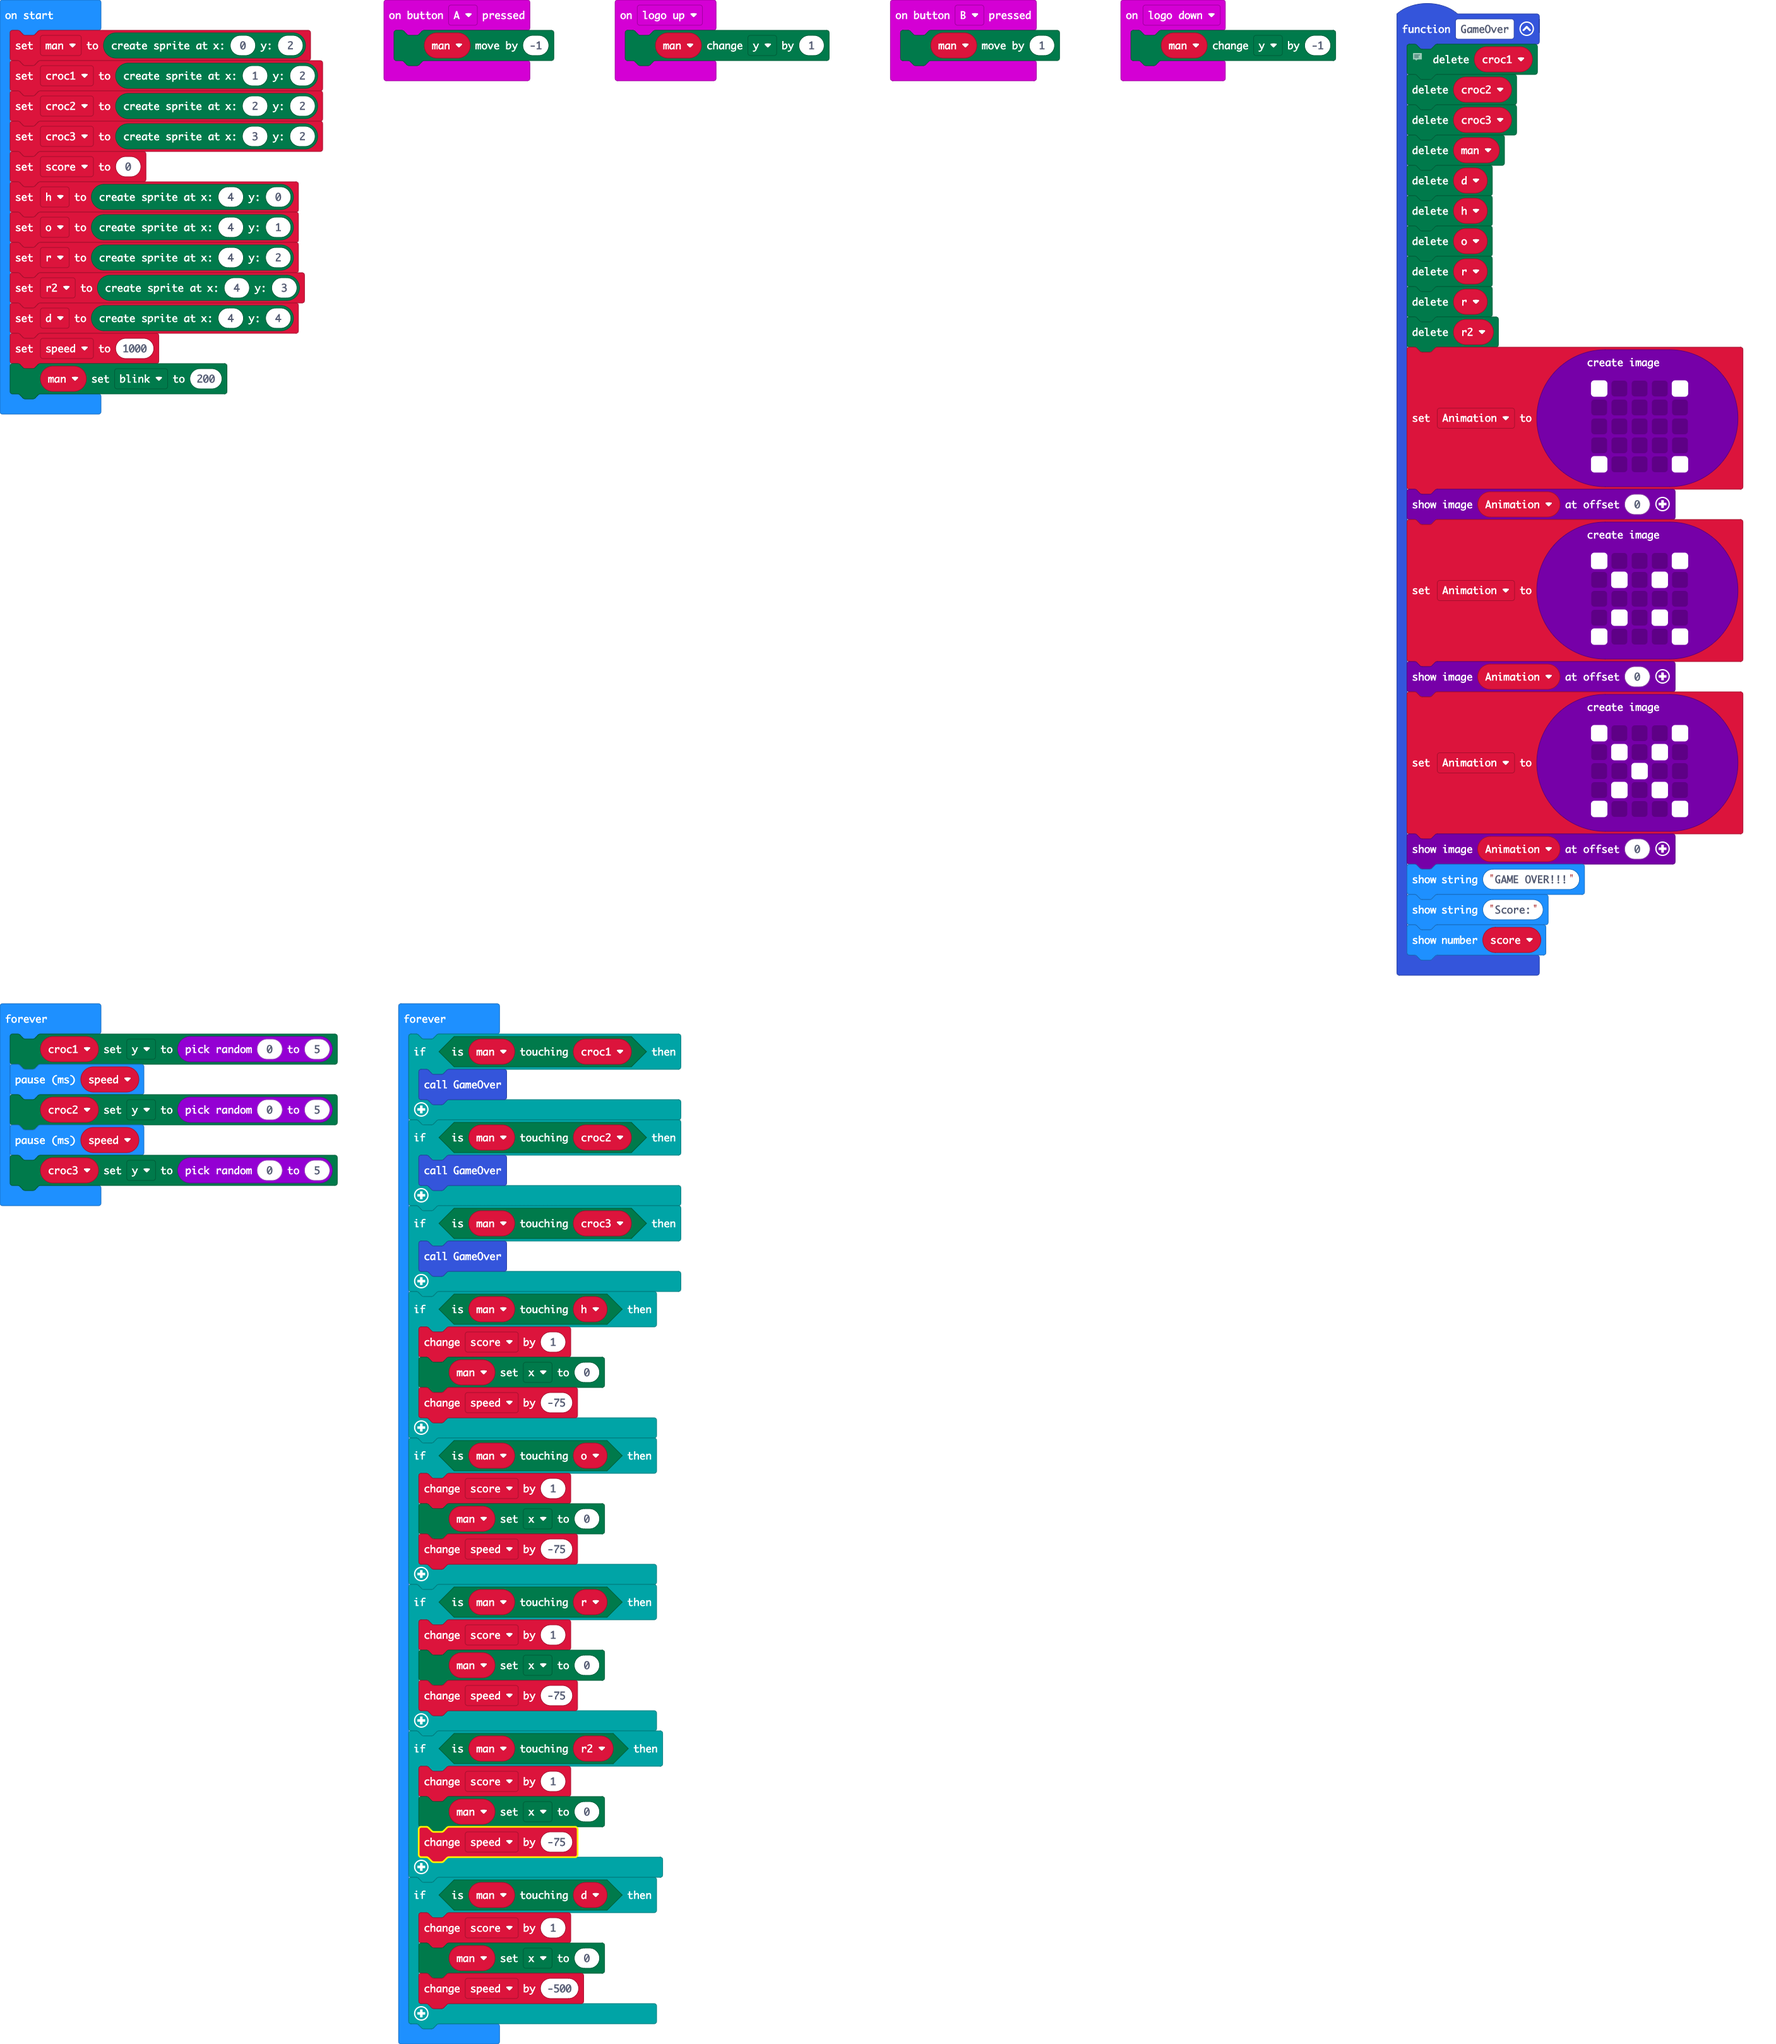
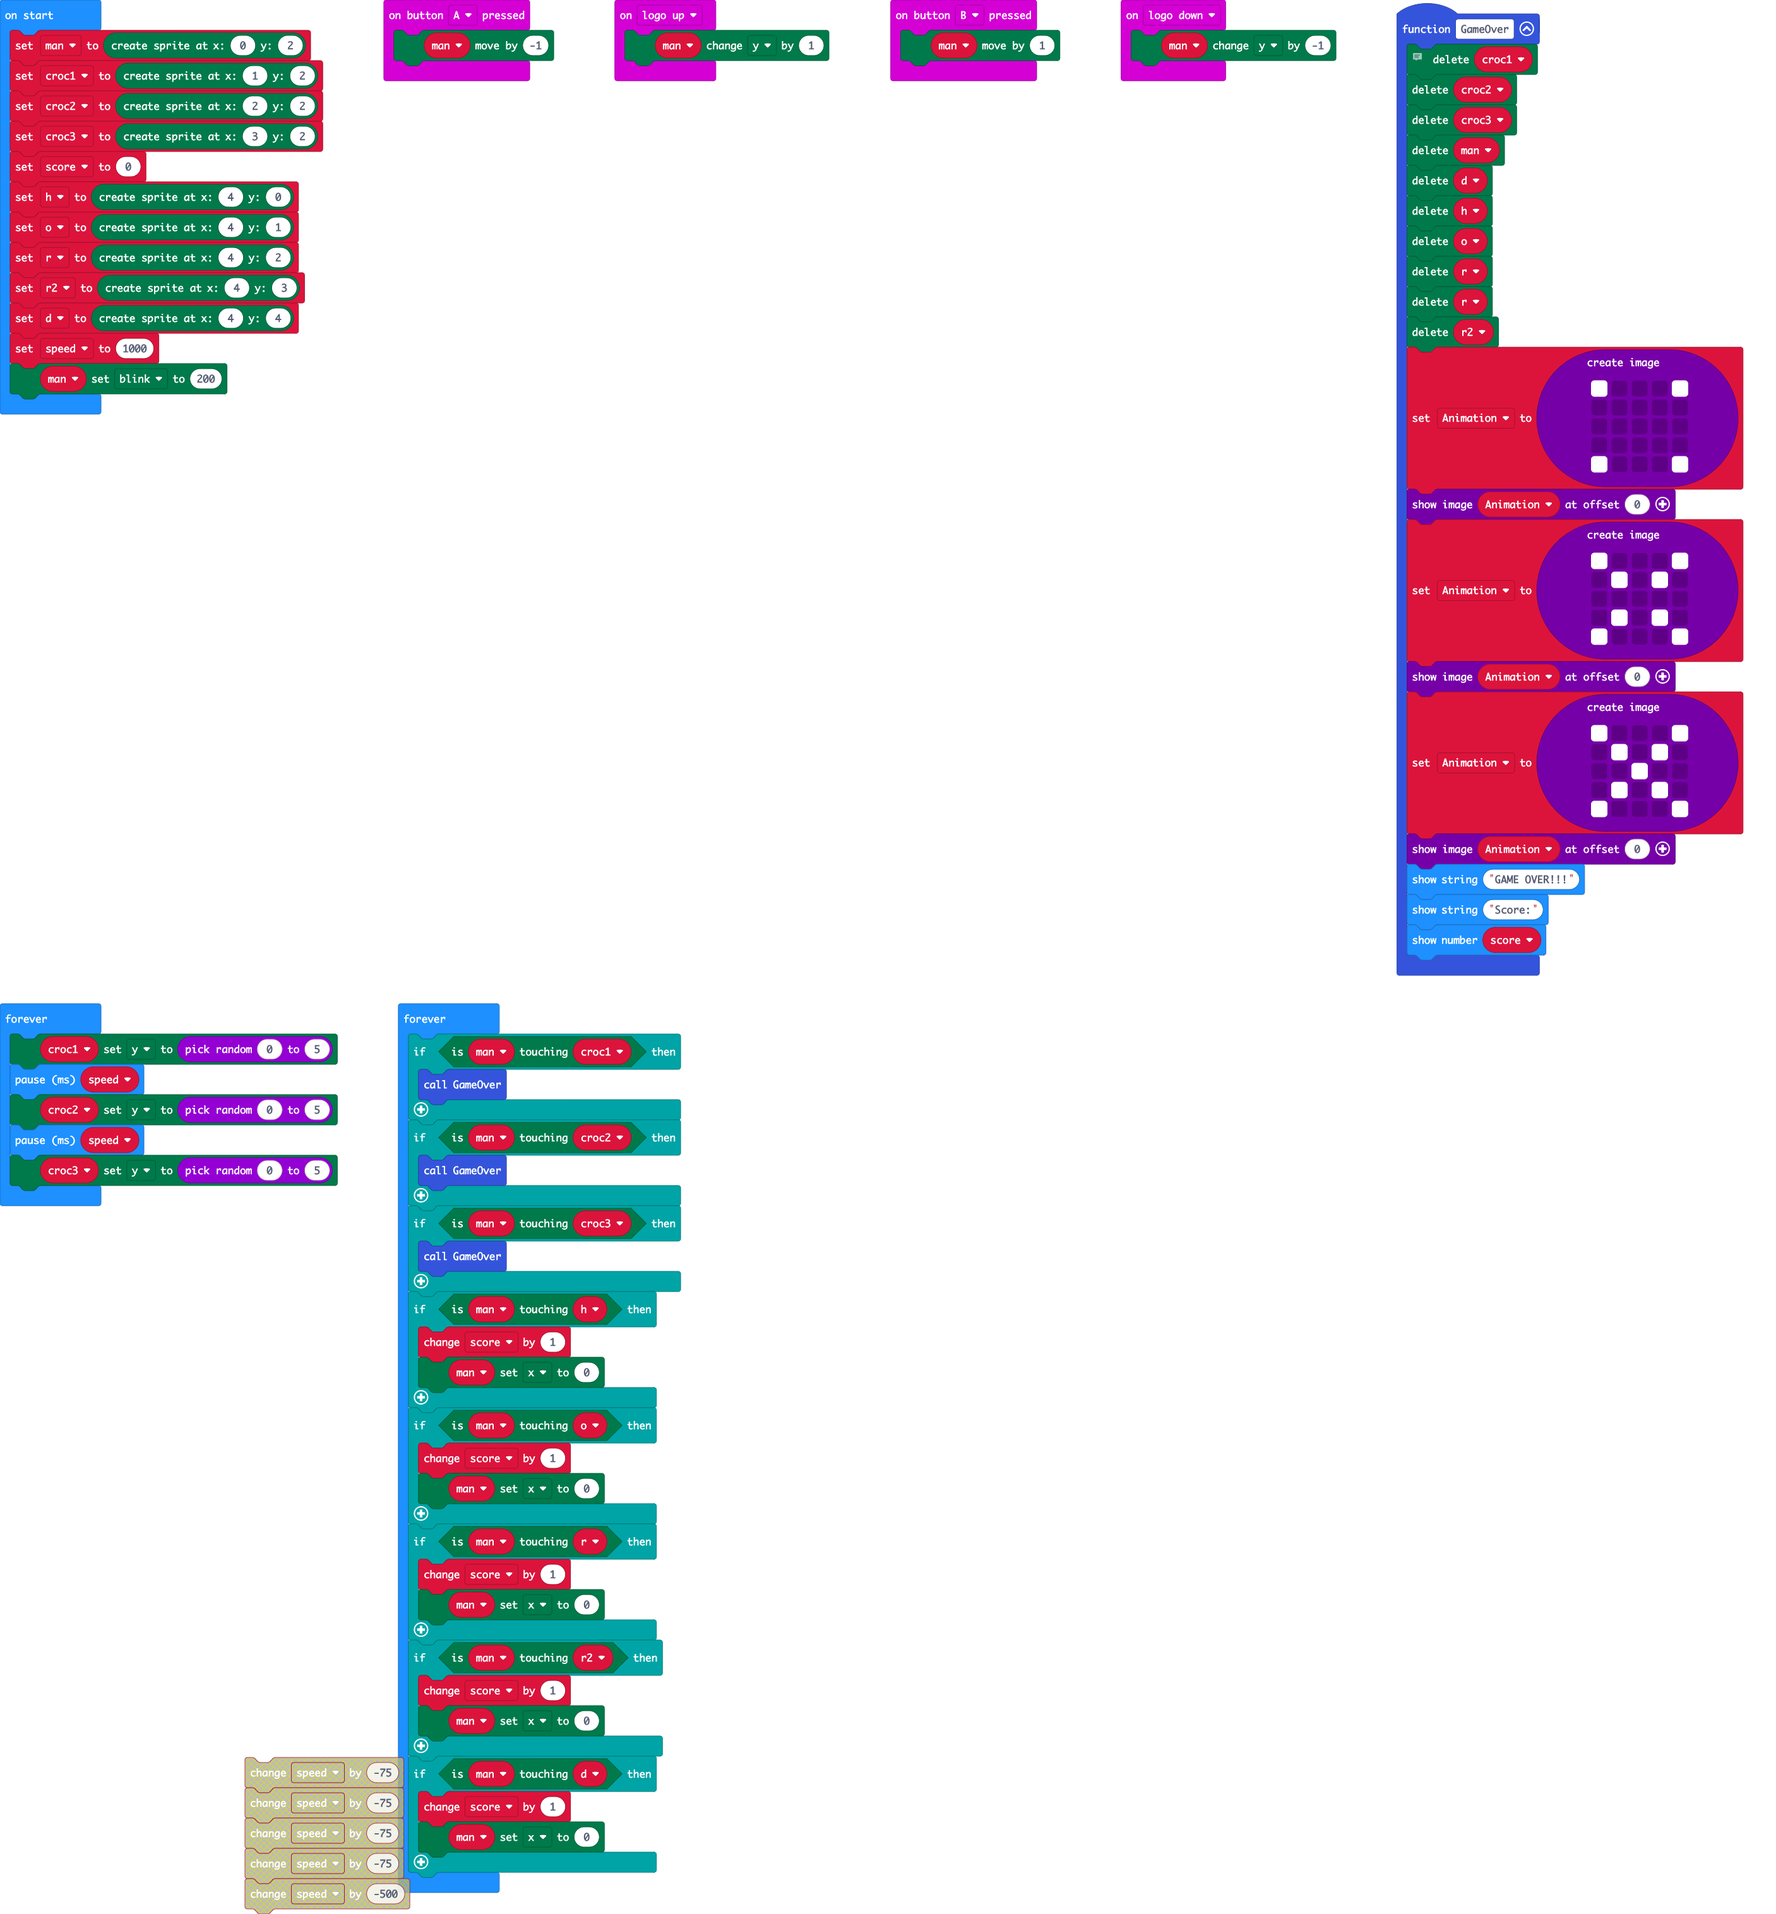
Update main.blocks, main.ts

diff --git a/main.ts b/main.ts
@@ -93,26 +93,21 @@ basic.forever(function () {
     if (man.isTouching(h)) {
         score += 1
         man.set(LedSpriteProperty.X, 0)
-        speed += -75
     }
     if (man.isTouching(o)) {
         score += 1
         man.set(LedSpriteProperty.X, 0)
-        speed += -75
     }
     if (man.isTouching(r)) {
         score += 1
         man.set(LedSpriteProperty.X, 0)
-        speed += -75
     }
     if (man.isTouching(r2)) {
         score += 1
         man.set(LedSpriteProperty.X, 0)
-        speed += -75
     }
     if (man.isTouching(d)) {
         score += 1
         man.set(LedSpriteProperty.X, 0)
-        speed += -500
     }
 })
